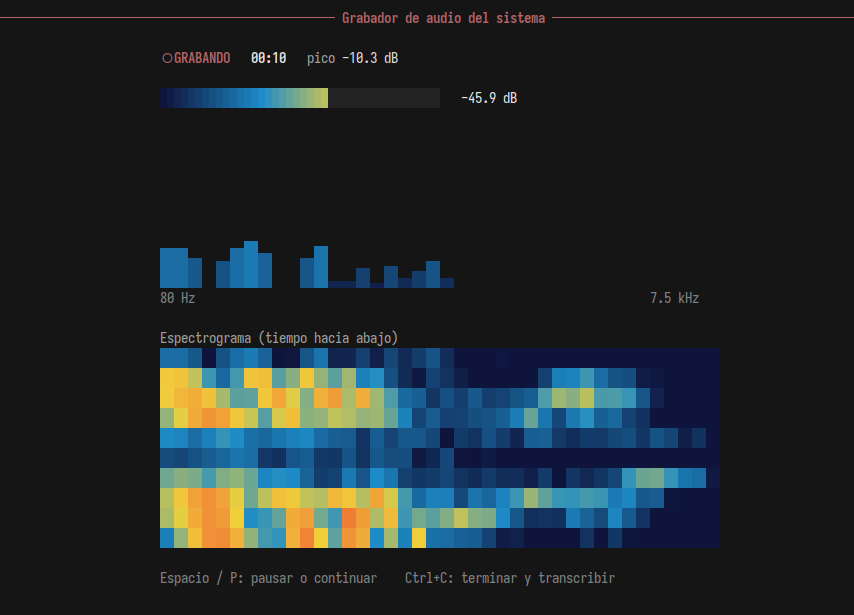
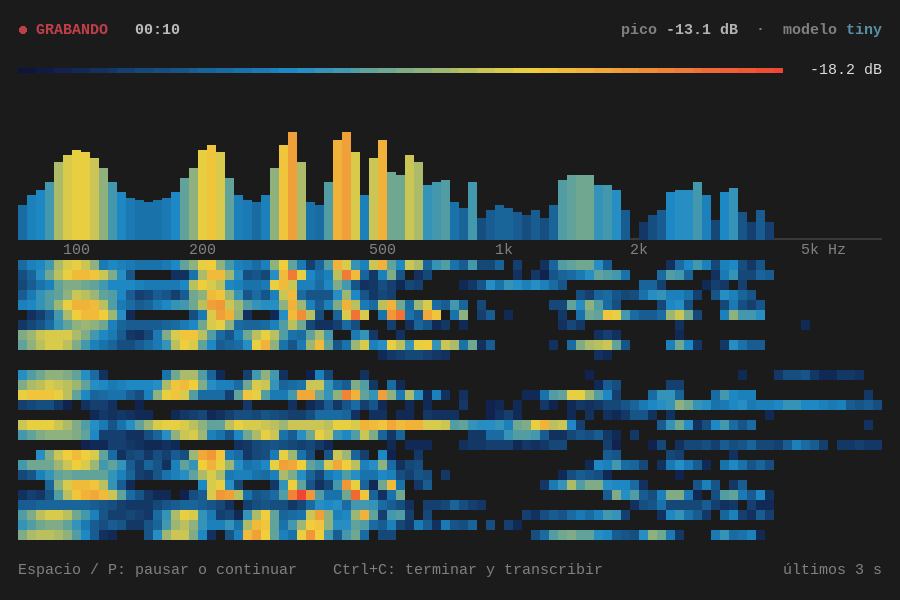
docs(readme): actualizar captura y describir la interfaz adaptable

diff --git a/README.md b/README.md
@@ -5,7 +5,7 @@ Herramienta de terminal que **graba el audio que suena en tu equipo** (bocinas o
 Sirve para transcribir audios que no se pueden descargar como archivo (por ejemplo, reproductores incrustados en
 páginas web). Todo corre en local: el audio no sale de tu equipo.
 
-![whisper-tool grabando: medidor de nivel, espectro y espectrograma en vivo](tool.png)
+![whisper-tool grabando: medidor de nivel, espectro con eje de frecuencias y espectrograma en vivo](tool.png)
 
 ## Requisitos
 
@@ -48,6 +48,10 @@ Los modelos se descargan de Hugging Face la primera vez que se usan y quedan en 
 | `Q` | salir sin grabar (en las pantallas iniciales) |
 
 Las grabaciones y transcripciones se guardan en `records/` como `grabacion_AAAAMMDD_HHMMSS.wav` y `.txt`.
+
+La interfaz se adapta al tamaño de la terminal: el espectro y el espectrograma ocupan el espacio disponible, se
+ajustan si redimensionas la ventana y se centran en pantallas anchas. Mientras grabas se ve el tiempo, el pico de
+nivel y el modelo en uso.
 
 ### Transcribir un archivo existente
 
